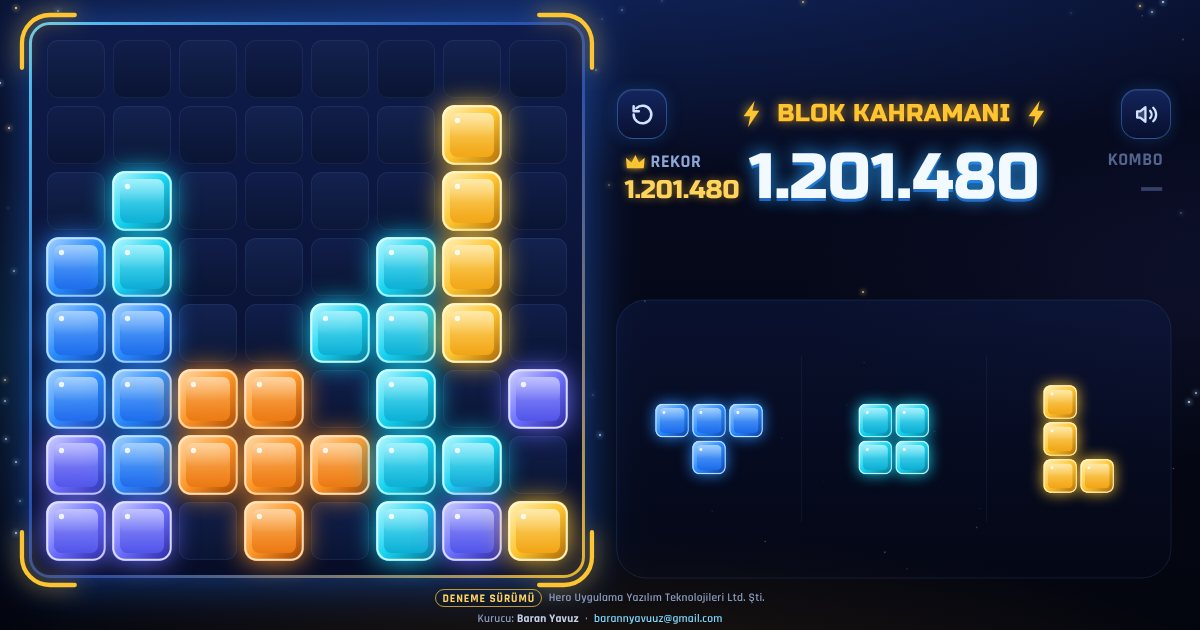
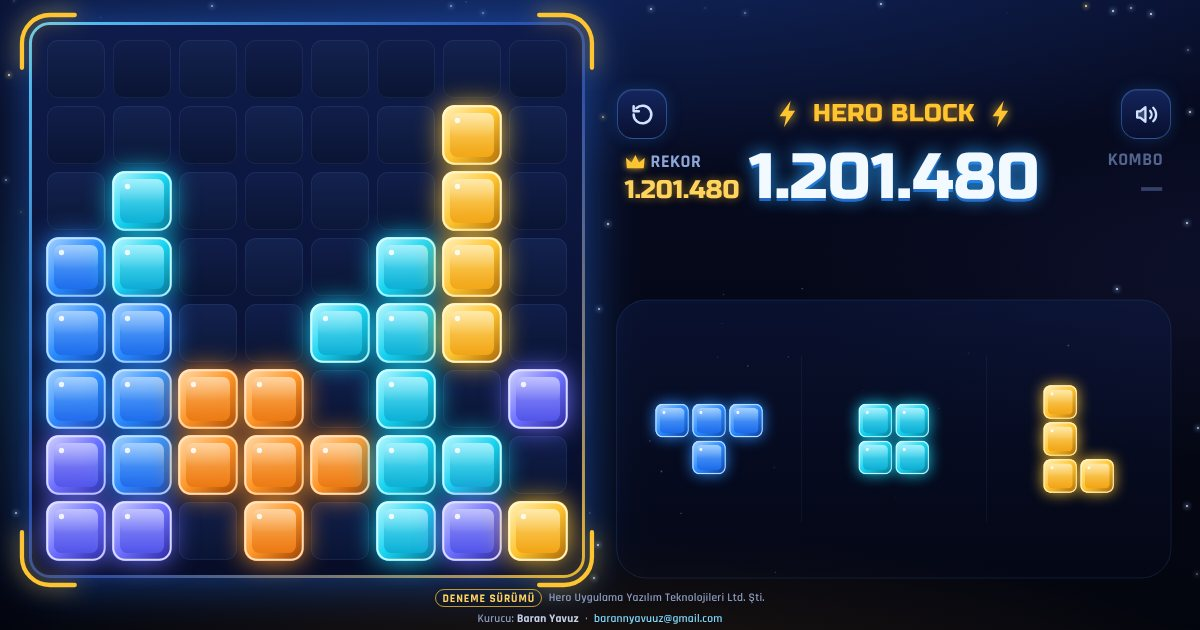
Oyunun adı Hero Block
Başlık, açılış ekranı, sekme adı, ana ekran simgesi adı, bağlantı önizlemesi,
manifest ve README'de oyunun adı artık "Hero Block". Kayıtlar ve rekorlar aynen
korunur.

Claude-Session: https://claude.ai/code/session_01PF9ZqAUkcrr7JnyAkv9ZQT

Changed region(s): [[0.6167, 0.1508, 0.8942, 0.2111], [0.9867, 0.6333, 1.0, 0.6635]]

diff --git a/index.html b/index.html
@@ -3,15 +3,15 @@
 <head>
 <meta charset="utf-8">
 <meta name="viewport" content="width=device-width, initial-scale=1, viewport-fit=cover">
-<title>Blok Kahramanı</title>
+<title>Hero Block</title>
 <meta name="description" content="Deneme sürümü. Neon temalı 8x8 blok bulmaca: parçaları sürükle, satır ve sütunları patlat, komboyu sürdür, milyonlara ulaş. Hero Uygulama Yazılım Teknolojileri Limited Şirketi.">
-<meta name="apple-mobile-web-app-title" content="Blok Kahramanı">
+<meta name="apple-mobile-web-app-title" content="Hero Block">
 <link rel="icon" type="image/png" sizes="32x32" href="favicon-32.png">
 <link rel="apple-touch-icon" href="apple-touch-icon.png">
 <link rel="manifest" href="manifest.webmanifest">
 <meta property="og:type" content="website">
-<meta property="og:site_name" content="Blok Kahramanı">
-<meta property="og:title" content="Blok Kahramanı">
+<meta property="og:site_name" content="Hero Block">
+<meta property="og:title" content="Hero Block">
 <meta property="og:description" content="Deneme sürümü. Parçaları sürükle, satır ve sütunları patlat, komboyu sürdür, milyonlara ulaş. Hero Uygulama Yazılım Teknolojileri.">
 <meta property="og:url" content="https://herophysio.github.io/blok-kahramani/">
 <meta property="og:image" content="https://herophysio.github.io/blok-kahramani/og.jpg">
@@ -487,7 +487,7 @@
 <noscript>
   <div class="nojs">
     <div class="nojs-card">
-      <h1 class="nojs-title">BLOK KAHRAMANI</h1>
+      <h1 class="nojs-title">HERO BLOCK</h1>
       <p class="nojs-lead">Oyun bu önizlemede açılmıyor</p>
       <p>WhatsApp'ın ve iPhone'daki Dosyalar uygulamasının önizlemesi oyunun kodunu çalıştırmıyor. Bu yüzden ekranda yalnızca boş arayüz görünüyor.</p>
       <p><strong>Oynamak için:</strong></p>
@@ -505,7 +505,7 @@
 <div id="hud">
   <div class="hud-title" aria-hidden="true">
     <svg viewBox="-12 -12 24 24"><path d="M3 -12L-7 2H-1L-3 12L7 -3H1Z"/></svg>
-    <span>BLOK KAHRAMANI</span>
+    <span>HERO BLOCK</span>
     <svg viewBox="-12 -12 24 24"><path d="M3 -12L-7 2H-1L-3 12L7 -3H1Z"/></svg>
   </div>
   <div class="hud-side hud-best">
@@ -525,7 +525,7 @@
   <canvas id="cells" class="region" aria-hidden="true"></canvas>
   <canvas id="hl" class="region" aria-hidden="true"></canvas>
   <canvas id="trayCv" class="region" aria-hidden="true"></canvas>
-  <canvas id="game" class="layer" role="img" aria-label="Blok Kahramanı oyun alanı. Alttaki parçaları sürükleyip 8x8 ızgaraya bırak; dolan satır ve sütunlar patlar."></canvas>
+  <canvas id="game" class="layer" role="img" aria-label="Hero Block oyun alanı. Alttaki parçaları sürükleyip 8x8 ızgaraya bırak; dolan satır ve sütunlar patlar."></canvas>
 </div>
 <canvas id="dragEl" aria-hidden="true"></canvas>
 
@@ -566,7 +566,7 @@
 <div id="ovStart" class="overlay" role="dialog" aria-modal="true" aria-labelledby="stTitle" hidden>
   <div id="stCard" class="card" tabindex="-1">
     <div class="badge badge-beta">DENEME SÜRÜMÜ</div>
-    <h2 id="stTitle" class="title">BLOK KAHRAMANI</h2>
+    <h2 id="stTitle" class="title">HERO BLOCK</h2>
     <p id="stSub" class="sub">Parçaları sürükle, satır ve sütunları patlat!</p>
     <button id="btnStart" class="btn btn-primary" type="button">OYNA</button>
     <p class="card-foot">Hero Uygulama Yazılım Teknolojileri Limited Şirketi<br>Kurucu: Baran Yavuz · <a href="mailto:barannyavuuz@gmail.com">barannyavuuz@gmail.com</a></p>

diff --git a/sw.js b/sw.js
@@ -1,10 +1,10 @@
-/* Blok Kahramanı: çevrimdışı oynama için hizmet çalışanı (service worker).
+/* Hero Block: çevrimdışı oynama için hizmet çalışanı (service worker).
    Oyun bir kez internetle açılınca oyunun dosyaları telefona kaydedilir; sonra bağlantı ve ana ekran
    simgesi internet olmadan da çalışır.
    - Sayfa: önce internet (en yeni sürüm gelsin); bağlantı yoksa ya da 3 sn içinde yanıt gelmezse kayıtlı kopya.
    - Yazı tipleri ve simgeler: önce kayıtlı kopya. */
 'use strict';
-const VERSION = '8e01def997';
+const VERSION = '804cd712ca';
 const CACHE = 'blok-kahramani-' + VERSION;
 const SHELL = ["./", "manifest.webmanifest", "apple-touch-icon.png", "icon-192.png", "icon-512.png", "favicon-32.png", "fonts/rajdhani-600-latin-ext.woff2", "fonts/rajdhani-600-latin.woff2", "fonts/rajdhani-700-latin-ext.woff2", "fonts/rajdhani-700-latin.woff2", "fonts/russo-one-400-latin-ext.woff2", "fonts/russo-one-400-latin.woff2"];
 const INDEX = new URL('./', self.registration.scope).href;

diff --git a/README.md b/README.md
@@ -1,4 +1,4 @@
-# Blok Kahramanı
+# Hero Block
 
 > **Deneme sürümü**
 
